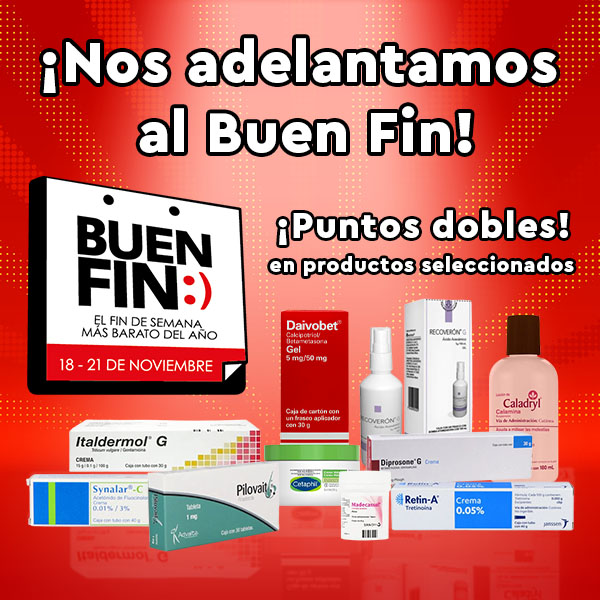
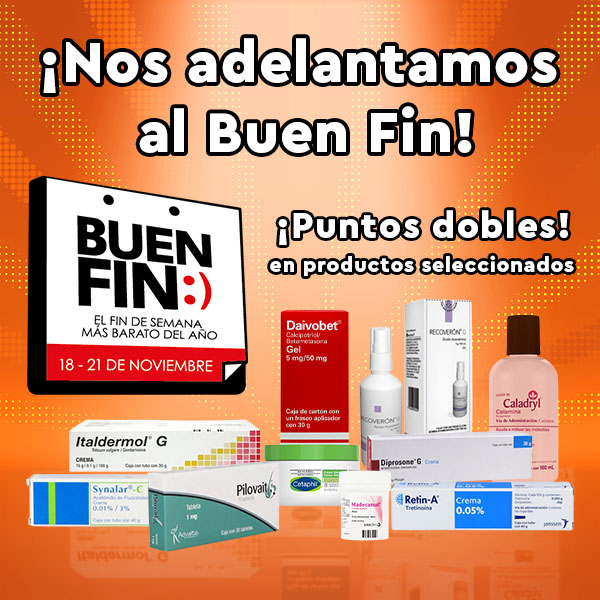
Correccion Buen fin

diff --git a/el-tarjeton/Nov-04/mail/index.html b/el-tarjeton/Nov-04/mail/index.html
@@ -145,10 +145,10 @@
       <!--[if mso | IE]></td></tr></table><table align="center" border="0" cellpadding="0" cellspacing="0" class="" role="presentation" style="width:600px;" width="600" bgcolor="#f2edf4" ><tr><td style="line-height:0px;font-size:0px;mso-line-height-rule:exactly;"><![endif]-->
     
       
-      <div  style="background:#b80000;background-color:#b80000;margin:0px auto;max-width:600px;">
+      <div  style="background:#cc4a12;background-color:#cc4a12;margin:0px auto;max-width:600px;">
         
         <table
-           align="center" border="0" cellpadding="0" cellspacing="0" role="presentation" style="background:#b80000;background-color:#b80000;width:100%;"
+           align="center" border="0" cellpadding="0" cellspacing="0" role="presentation" style="background:#cc4a12;background-color:#cc4a12;width:100%;"
         >
           <tbody>
             <tr>
